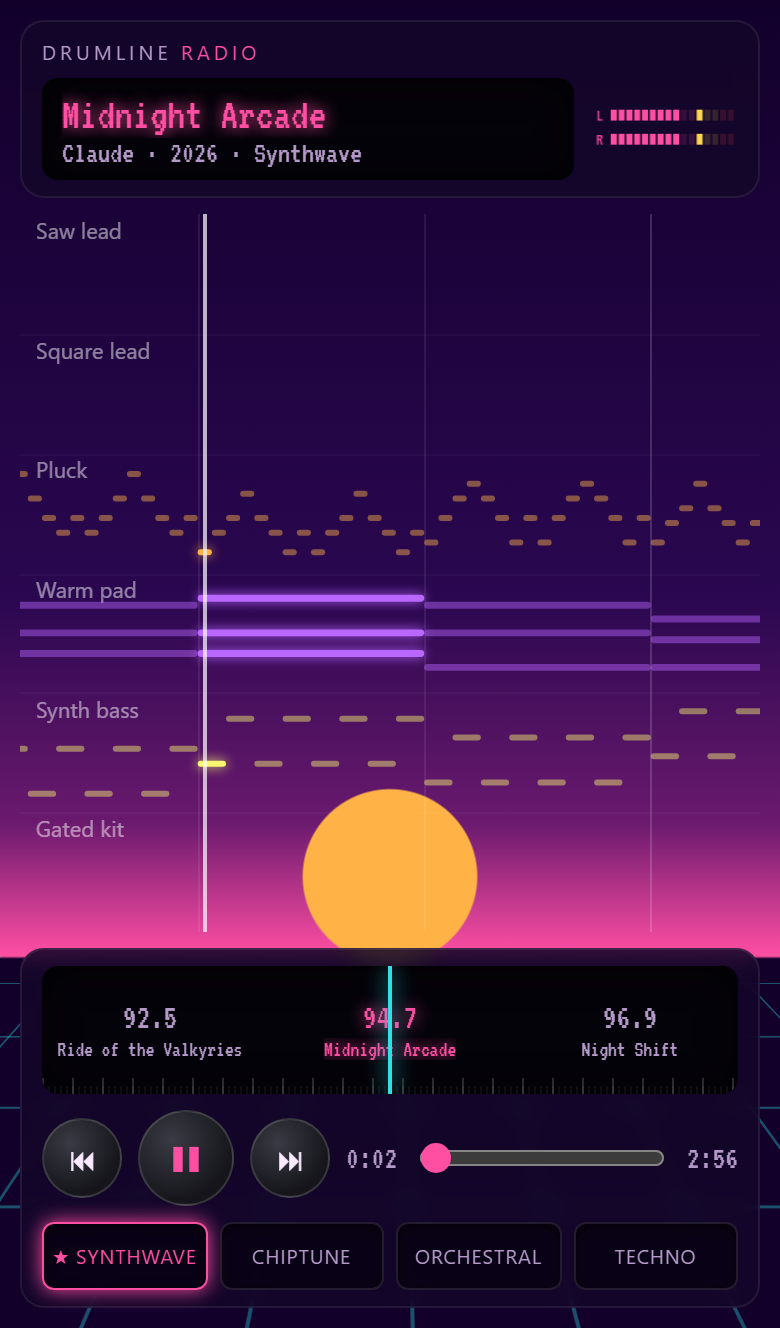
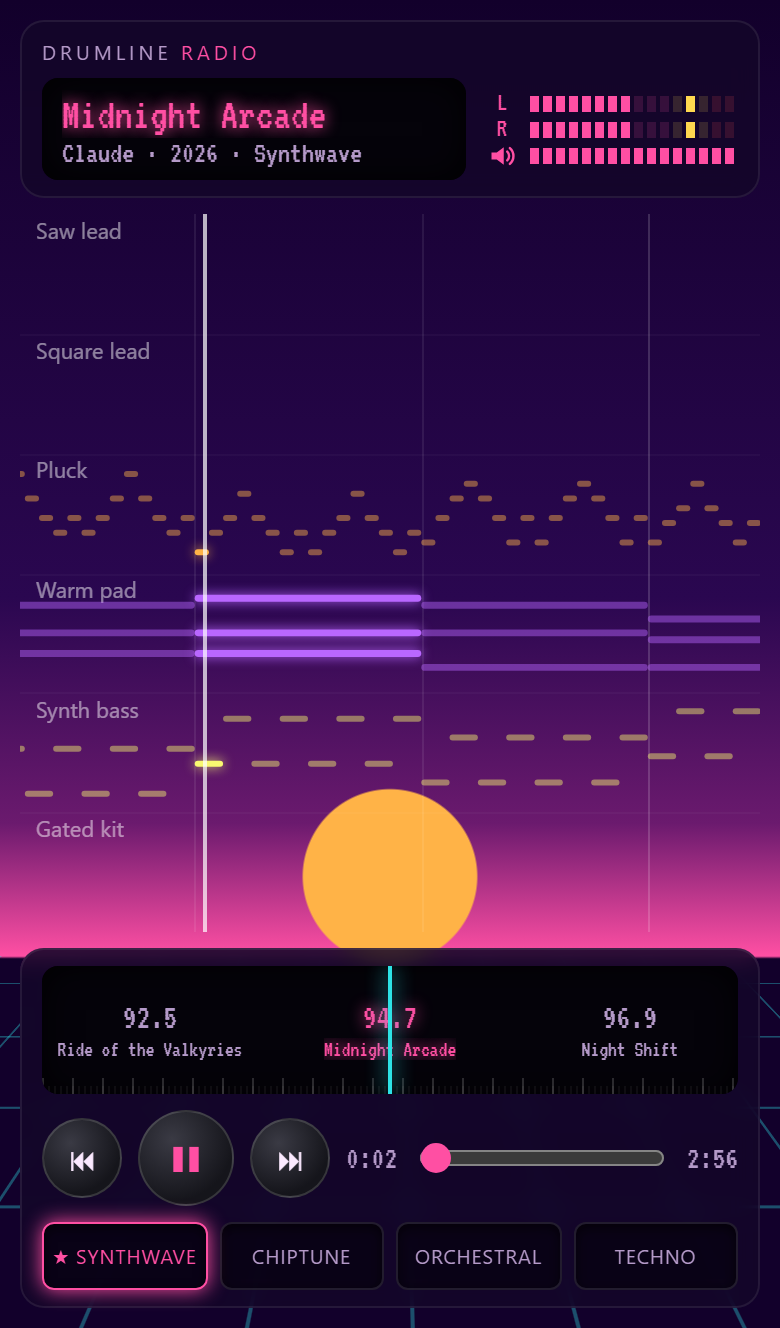
Match the volume control to the meters
L, R, and volume are now three LED rows of 16 segments with the same
width and a shared label column (L, R, speaker icon). The volume row is
still a range input, drawn as whole lit segments. The meter canvas sizes
itself to its box at the device pixel ratio, so it is sharp at any size.

Changed region(s): [[0.5846, 0.0617, 0.9538, 0.1544], [0.8308, 0.1544, 0.8615, 0.7101]]

diff --git a/src/style.css b/src/style.css
@@ -189,34 +189,52 @@ body::after {
   text-overflow: ellipsis;
 }
 
-.meters {
-  flex: 0 0 auto;
-  width: 120px;
-  height: 48px;
-}
-
+/* L, R, and volume are three matching LED rows: 16 segments, same width, labels in one column. */
 .levels {
+  --seg-h: 10px;
+  --seg-gap: 6px;
+  --bars-w: 168px;
   flex: 0 0 auto;
-  display: flex;
-  flex-direction: column;
-  gap: 4px;
+  display: grid;
+  grid-template-columns: 16px var(--bars-w);
+  grid-template-rows: repeat(3, var(--seg-h));
+  gap: var(--seg-gap) 6px;
+  align-items: center;
 }
 
-.volume {
-  display: flex;
-  align-items: center;
-  gap: 6px;
+.level-label {
+  grid-column: 1;
+  font-family: var(--readout-font);
+  font-size: 13px;
+  line-height: 1;
+  color: var(--accent);
+  text-align: center;
+}
+
+.level-l {
+  grid-row: 1;
+}
+
+.level-r {
+  grid-row: 2;
+}
+
+.meters {
+  grid-column: 2;
+  grid-row: 1 / span 2;
+  width: 100%;
+  height: 100%;
 }
 
 .mute {
-  flex: 0 0 auto;
+  grid-column: 1;
+  grid-row: 3;
   display: grid;
   place-items: center;
-  width: 24px;
-  height: 24px;
+  width: 16px;
+  height: 16px;
   padding: 0;
   border: 0;
-  border-radius: 4px;
   background: transparent;
   color: var(--accent);
   cursor: pointer;
@@ -235,12 +253,56 @@ body::after {
   color: var(--muted);
 }
 
+/* A real range input (touch and keyboard work), drawn as lit segments like the meters. */
 .volume-slider {
-  flex: 1;
-  min-width: 0;
-  width: 90px;
+  grid-column: 2;
+  grid-row: 3;
+  width: 100%;
+  height: var(--seg-h);
   margin: 0;
-  accent-color: var(--accent);
+  padding: 0;
+  appearance: none;
+  -webkit-appearance: none;
+  background: linear-gradient(
+    90deg,
+    var(--accent) 0 var(--fill, 100%),
+    color-mix(in srgb, var(--accent) 15%, transparent) var(--fill, 100%) 100%
+  );
+  mask: repeating-linear-gradient(90deg, #000 0 calc(6.25% - 2px), transparent calc(6.25% - 2px) 6.25%);
+  -webkit-mask: repeating-linear-gradient(90deg, #000 0 calc(6.25% - 2px), transparent calc(6.25% - 2px) 6.25%);
+  cursor: pointer;
+}
+
+.volume-slider::-webkit-slider-runnable-track {
+  height: 100%;
+  background: transparent;
+}
+
+.volume-slider::-webkit-slider-thumb {
+  width: 2px;
+  height: 100%;
+  appearance: none;
+  -webkit-appearance: none;
+  background: transparent;
+}
+
+.volume-slider::-moz-range-track {
+  height: 100%;
+  background: transparent;
+}
+
+.volume-slider::-moz-range-thumb {
+  width: 2px;
+  height: 100%;
+  border: 0;
+  background: transparent;
+}
+
+/* The mask hides an outline on the slider itself, so show focus on the whole block. */
+.levels:has(.volume-slider:focus-visible) {
+  outline: 2px solid var(--accent-2);
+  outline-offset: 4px;
+  border-radius: 2px;
 }
 
 .stage {
@@ -517,22 +579,10 @@ body::after {
   }
 
   .levels {
+    --seg-h: 8px;
+    --seg-gap: 5px;
+    --bars-w: 104px;
     align-self: center;
-    gap: 2px;
-  }
-
-  .meters {
-    width: 84px;
-    height: 30px;
-  }
-
-  .mute {
-    width: 22px;
-    height: 22px;
-  }
-
-  .volume-slider {
-    width: 56px;
   }
 
   .stage {

diff --git a/src/meters.ts b/src/meters.ts
@@ -2,12 +2,9 @@ export interface Meters {
   draw(levels: [number, number], accent: string): void;
 }
 
-const SEGMENTS = 16;
-const SEGMENT_WIDTH = 5;
-const SEGMENT_GAP = 1.5;
-const SEGMENT_HEIGHT = 9;
-const LEFT = 14;
-const ROW_Y = [8, 28];
+/** Shared with the volume row in style.css, so all three rows line up segment for segment. */
+export const SEGMENTS = 16;
+const SEGMENT_GAP = 2;
 
 export function createMeters(canvas: HTMLCanvasElement): Meters {
   const ctx = canvas.getContext('2d');
@@ -17,10 +14,21 @@ export function createMeters(canvas: HTMLCanvasElement): Meters {
   return {
     draw(levels: [number, number], accent: string): void {
       if (!ctx) return;
-      const width = canvas.width;
-      const height = canvas.height;
+      const ratio = window.devicePixelRatio || 1;
+      const width = Math.round(canvas.clientWidth * ratio);
+      const height = Math.round(canvas.clientHeight * ratio);
+      if (canvas.width !== width || canvas.height !== height) {
+        canvas.width = width;
+        canvas.height = height;
+      }
       ctx.clearRect(0, 0, width, height);
       const now = performance.now() / 1000;
+
+      // Two rows with a gap between them; the gap matches the grid row gap in style.css.
+      const rowHeight = Math.round((height * 5) / 13);
+      const rowY = [0, height - rowHeight];
+      const period = width / SEGMENTS;
+      const segmentWidth = period - SEGMENT_GAP * ratio;
 
       for (let row = 0; row < 2; row += 1) {
         const level = levels[row] ?? 0;
@@ -33,19 +41,12 @@ export function createMeters(canvas: HTMLCanvasElement): Meters {
           peaks[row] = lit;
         }
 
-        ctx.font = '14px VT323, monospace';
-        ctx.textBaseline = 'middle';
-        ctx.fillStyle = accent;
-        ctx.globalAlpha = 1;
-        ctx.fillText(row === 0 ? 'L' : 'R', 2, ROW_Y[row] + SEGMENT_HEIGHT / 2);
-
         for (let segment = 0; segment < SEGMENTS; segment += 1) {
           const colour = segment < 11 ? accent : segment < 14 ? '#ffd84f' : '#ff4f4f';
-          const shown = segment < lit || segment === peaks[row];
+          const shown = segment < lit || segment === peaks[row] - 1;
           ctx.globalAlpha = shown ? 1 : 0.15;
           ctx.fillStyle = colour;
-          const x = LEFT + segment * (SEGMENT_WIDTH + SEGMENT_GAP);
-          ctx.fillRect(x, ROW_Y[row], SEGMENT_WIDTH, SEGMENT_HEIGHT);
+          ctx.fillRect(Math.round(segment * period), rowY[row], Math.round(segmentWidth), rowHeight);
         }
       }
 

diff --git a/index.html b/index.html
@@ -19,17 +19,17 @@
           <div id="subtitle" class="readout-sub">Press play</div>
         </div>
         <div class="levels">
-          <canvas id="meters" class="meters" width="120" height="48" aria-hidden="true"></canvas>
-          <div class="volume">
-            <button id="mute" class="mute" type="button" aria-label="Mute" aria-pressed="false" title="Mute (M)">
-              <svg viewBox="0 0 16 16" width="16" height="16" aria-hidden="true">
-                <path d="M2 6h3l4-3v10l-4-3H2z" fill="currentColor" />
-                <path class="waves" d="M11 5.5a3.5 3.5 0 0 1 0 5M12.5 3.5a6 6 0 0 1 0 9" fill="none" stroke="currentColor" stroke-width="1.4" stroke-linecap="round" />
-                <path class="slash" d="M11 5l4 6M15 5l-4 6" fill="none" stroke="currentColor" stroke-width="1.4" stroke-linecap="round" />
-              </svg>
-            </button>
-            <input id="volume" class="volume-slider" type="range" min="0" max="100" value="100" step="1" aria-label="Volume" />
-          </div>
+          <span class="level-label level-l" aria-hidden="true">L</span>
+          <span class="level-label level-r" aria-hidden="true">R</span>
+          <canvas id="meters" class="meters" aria-hidden="true"></canvas>
+          <button id="mute" class="mute" type="button" aria-label="Mute" aria-pressed="false" title="Mute (M)">
+            <svg viewBox="0 0 16 16" width="14" height="14" aria-hidden="true">
+              <path d="M2 6h3l4-3v10l-4-3H2z" fill="currentColor" />
+              <path class="waves" d="M11 5.5a3.5 3.5 0 0 1 0 5M12.5 3.5a6 6 0 0 1 0 9" fill="none" stroke="currentColor" stroke-width="1.4" stroke-linecap="round" />
+              <path class="slash" d="M11 5l4 6M15 5l-4 6" fill="none" stroke="currentColor" stroke-width="1.4" stroke-linecap="round" />
+            </svg>
+          </button>
+          <input id="volume" class="volume-slider" type="range" min="0" max="100" value="100" step="1" aria-label="Volume" />
         </div>
       </header>
       <main class="stage">

diff --git a/src/ui.ts b/src/ui.ts
@@ -1,7 +1,7 @@
 import { createDial } from './dial';
 import { Engine } from './engine';
 import { LIBRARY, LIBRARY_ERRORS } from './library';
-import { createMeters } from './meters';
+import { createMeters, SEGMENTS } from './meters';
 import { STYLES } from './roles';
 import type { StyleId } from './roles';
 import { createScore } from './score';
@@ -129,6 +129,8 @@ export function startUi(): void {
 
   function applyVolume(): void {
     volumeEl.value = String(volume);
+    const lit = Math.round((volume / 100) * SEGMENTS);
+    volumeEl.style.setProperty('--fill', `${(lit / SEGMENTS) * 100}%`);
     muteButton.setAttribute('aria-pressed', String(muted));
     muteButton.setAttribute('aria-label', muted ? 'Unmute' : 'Mute');
     muteButton.classList.toggle('muted', muted || volume === 0);
